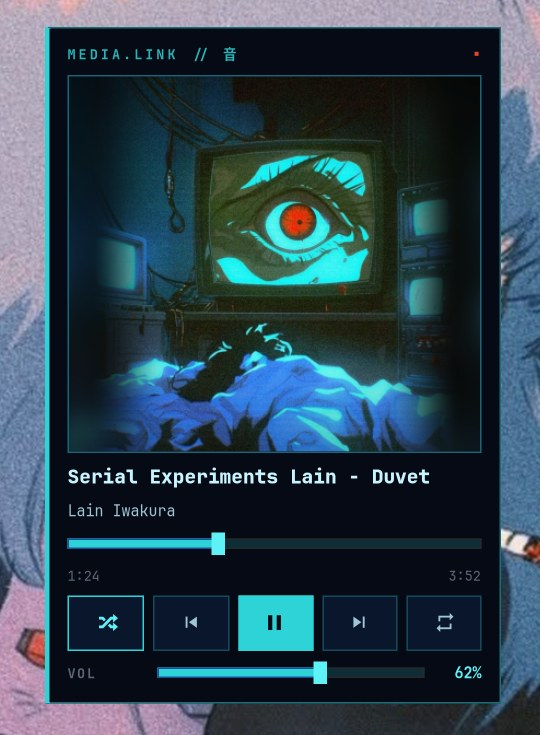
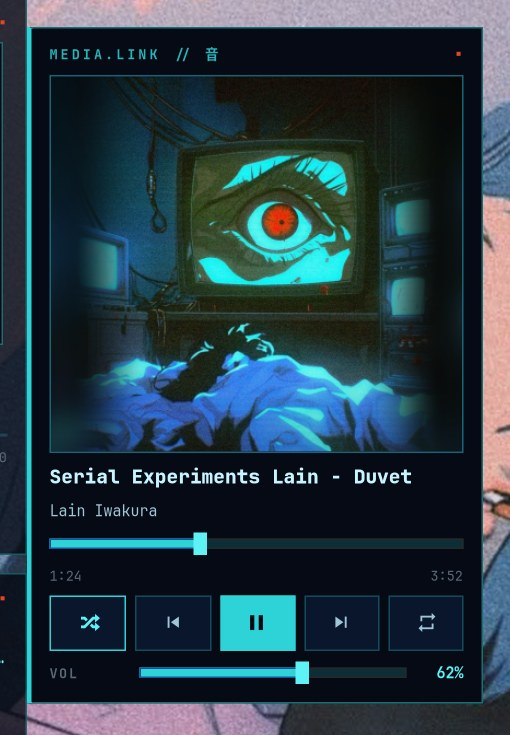
Player popup opens centred under the bar (not under the pointer); screenshot tool can retake a subset

diff --git a/home/.config/gits-widgets/panel.py b/home/.config/gits-widgets/panel.py
@@ -247,6 +247,7 @@ class Popup(Gtk.Window):
         self.add_css_class("panel-win")
         self.left = left
         self.center = center
+        self.hcenter = False   # centred horizontally under the bar (the media popup), instead of hugging a corner
         LS.init_for_window(self)
         LS.set_namespace(self, "gits-panel")
         LS.set_layer(self, LS.Layer.OVERLAY)
@@ -294,6 +295,8 @@ class Popup(Gtk.Window):
         if self.center:
             stack.set_halign(Gtk.Align.CENTER)
             stack.set_margin_top(110)
+        elif self.hcenter:
+            stack.set_halign(Gtk.Align.CENTER)
         elif self.left is None:
             stack.set_halign(Gtk.Align.END)
             stack.set_margin_end(8)
@@ -672,8 +675,9 @@ class MediaPopup(Popup):
     """Player popup (MPRIS through playerctl): cover, title, seek bar, transport, shuffle/repeat, player volume."""
     CACHE = os.path.join(os.environ.get("XDG_CACHE_HOME", HOME + "/.cache"), "gits-widgets", "art")
 
-    def __init__(self, monitor, left):
-        super().__init__(monitor, left)
+    def __init__(self, monitor):
+        super().__init__(monitor)
+        self.hcenter = True   # opened from the bar or by Super+Shift+M: always in the middle, never wherever the pointer happens to be
         self.CARD_W = 304
         self.quiet = False
         self.art_key = None
@@ -1272,9 +1276,7 @@ def main():
         width = mon.get_geometry().width if mon else 1280
         win = MixerPopup(mon, max(8, min(cx - 170, width - 348)))
     elif mode == "media":
-        cx = int(sh(["hyprctl", "cursorpos"]).split(",")[0] or 640) if not DEMO else 700  # logical px: under the clicked bar module
-        width = mon.get_geometry().width if mon else 1280
-        win = MediaPopup(mon, max(8, min(cx - 150, width - 308)))
+        win = MediaPopup(mon)
     else:
         win = Panel(mon)
     win.connect("close-request", lambda *_: (loop.quit(), False)[1])
